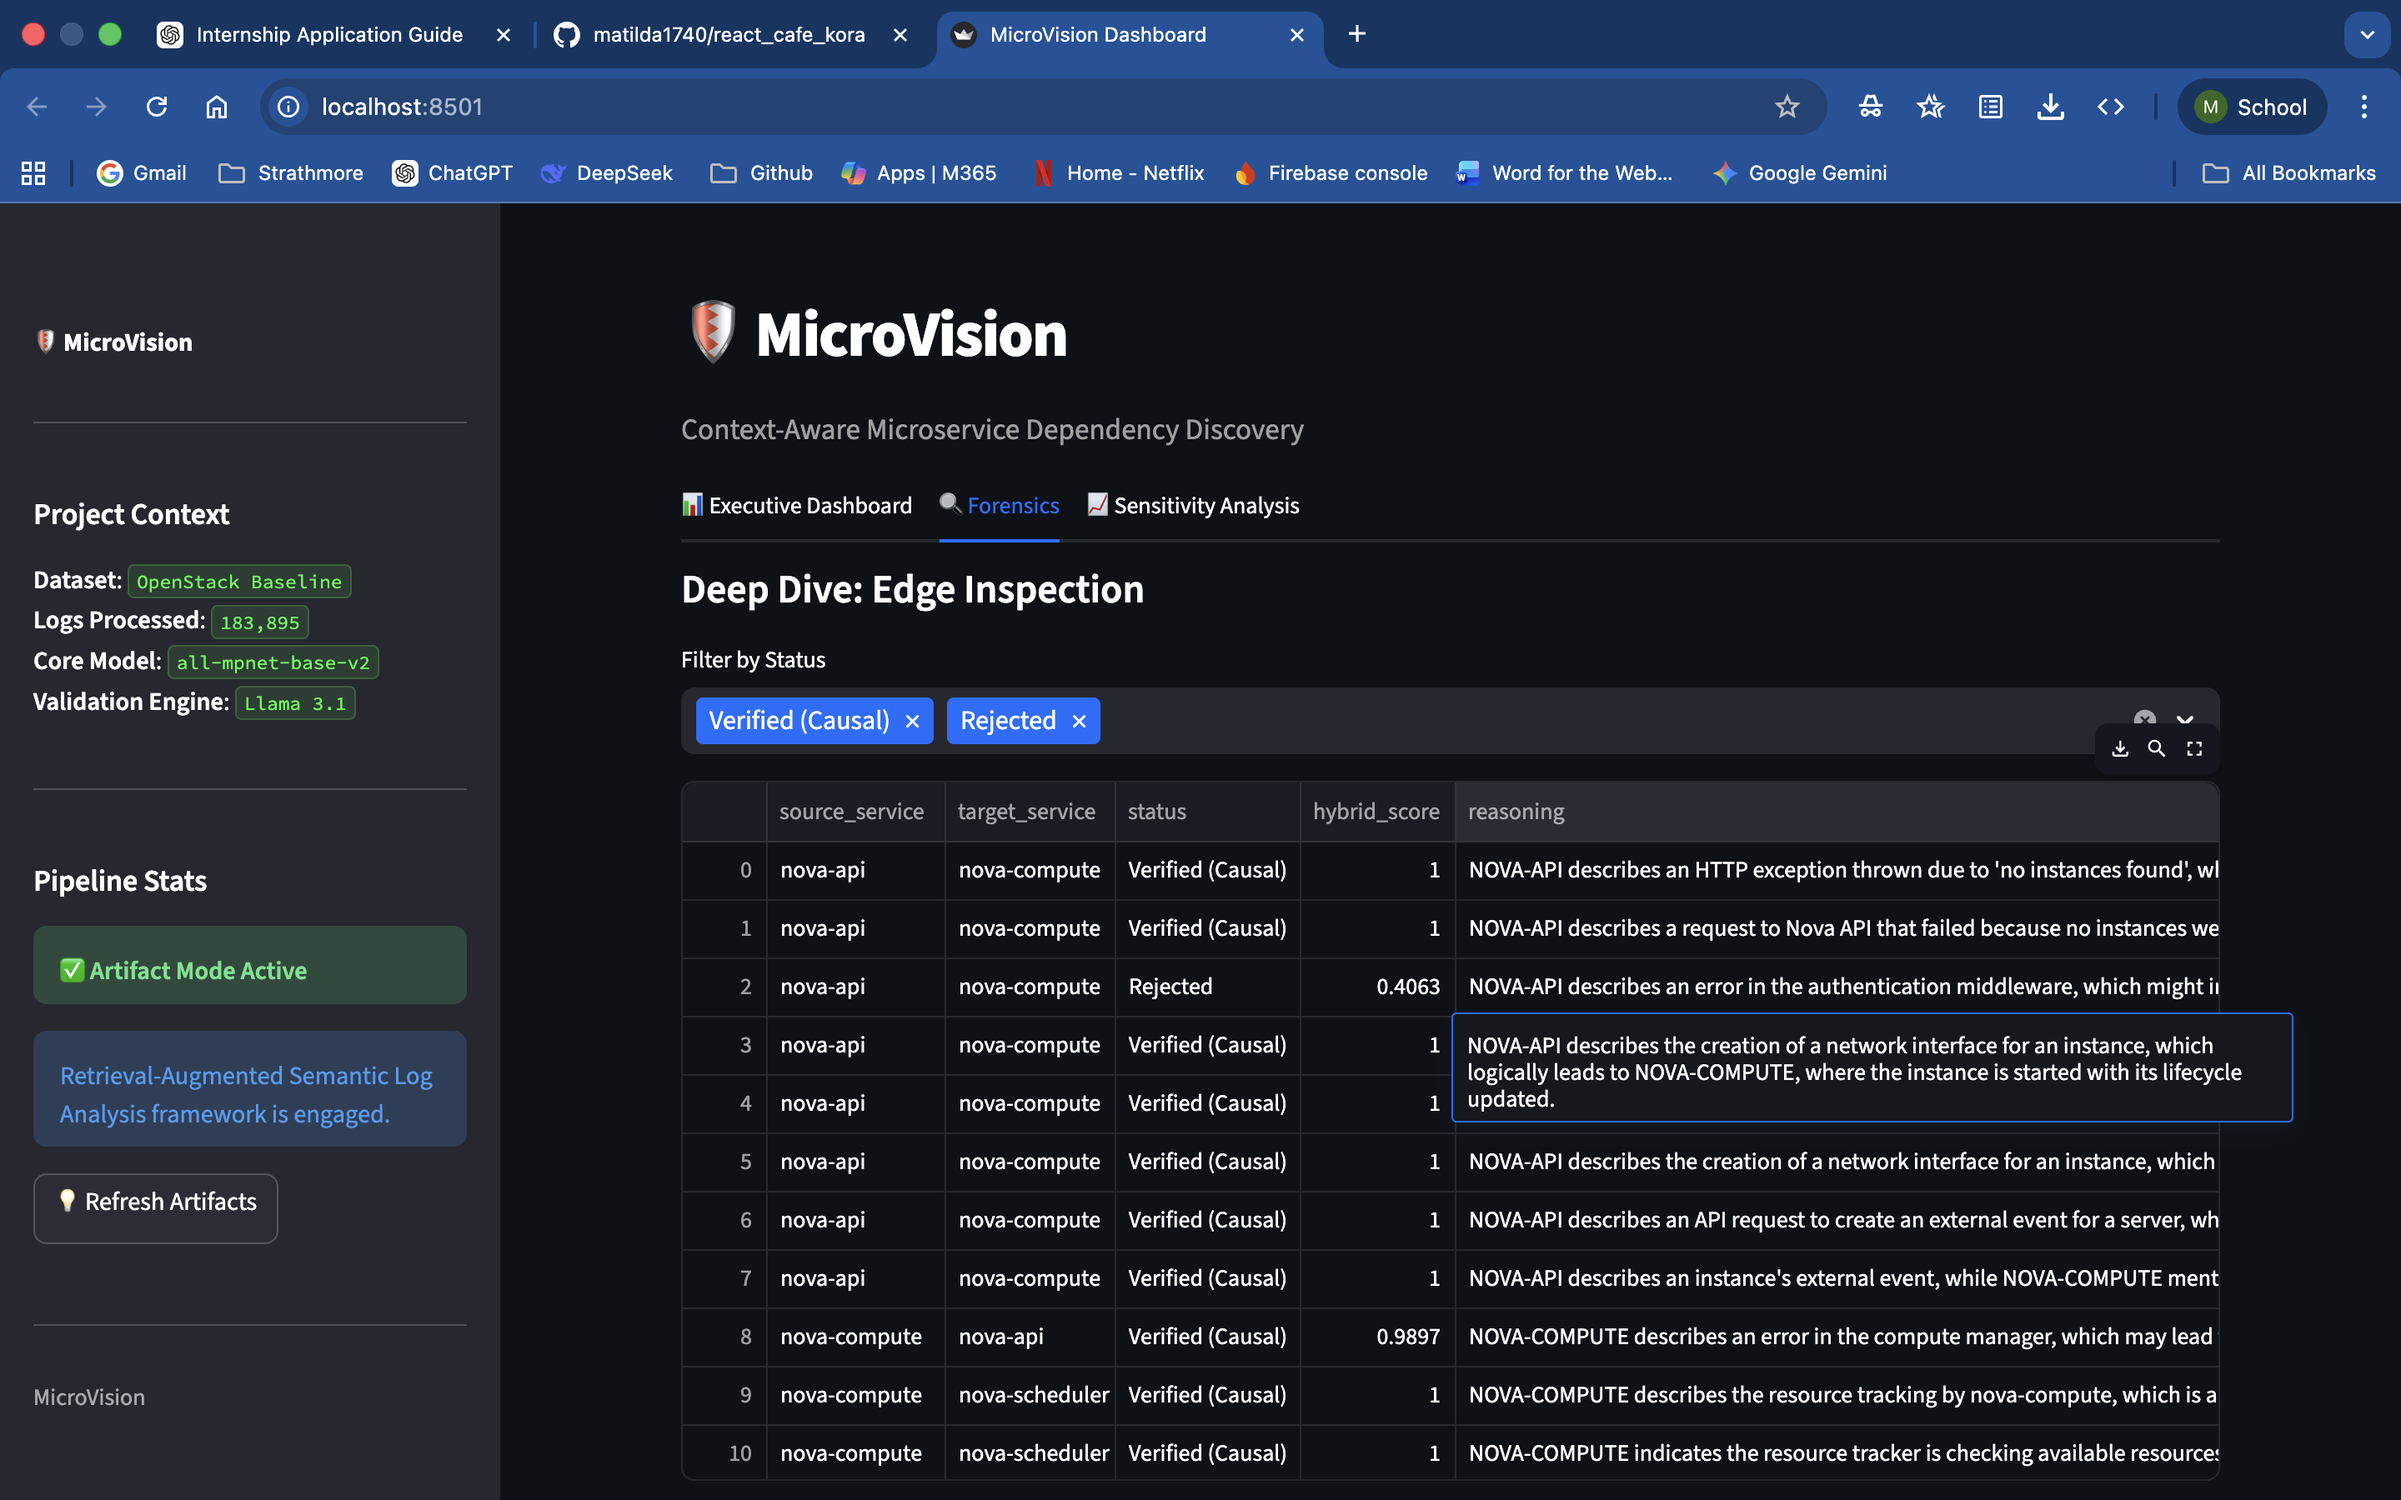
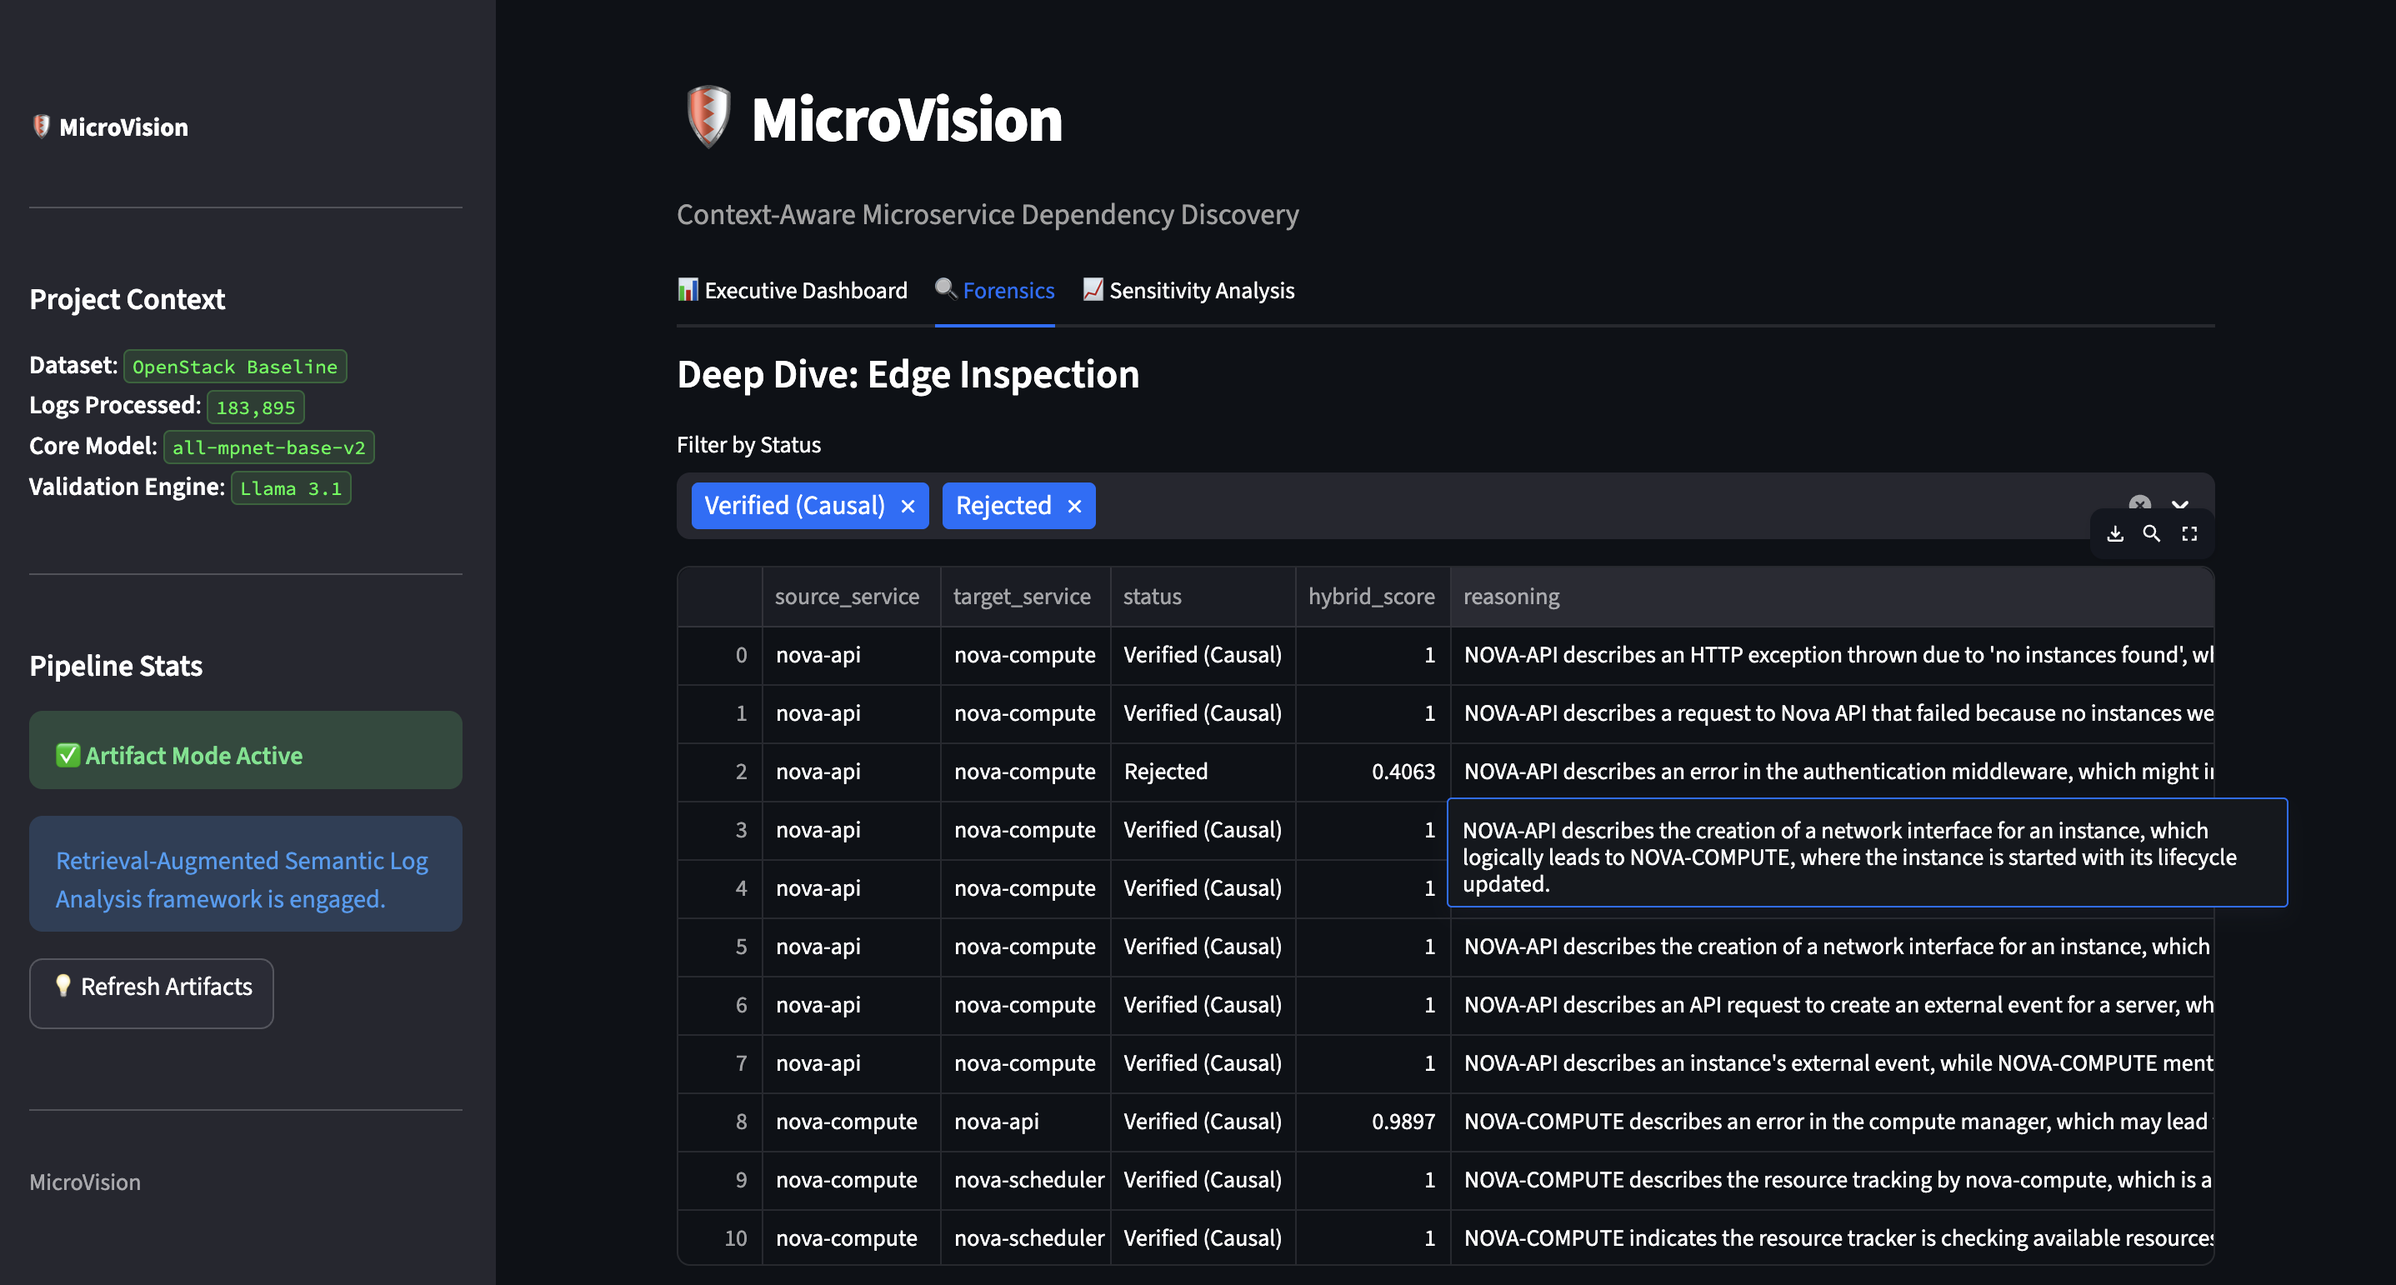
minor corrections

diff --git a/README.md b/README.md
@@ -32,7 +32,7 @@ Our pipeline implements a **Retrieval-Augmented Semantic Analysis** framework:
 | :---: | :---: |
 | ![Dashboard](docs/images/dashboard.png) | ![Forensics](docs/images/forensics.png) |
 
-| Causal Reasoning | Sensitivity Optimization |
+| System Architecture | Sensitivity Optimization |
 | :---: | :---: |
 | ![Architecture](docs/images/sysarch.png) | ![Sensitivity](docs/images/sensitivity_plot.png) |
 
